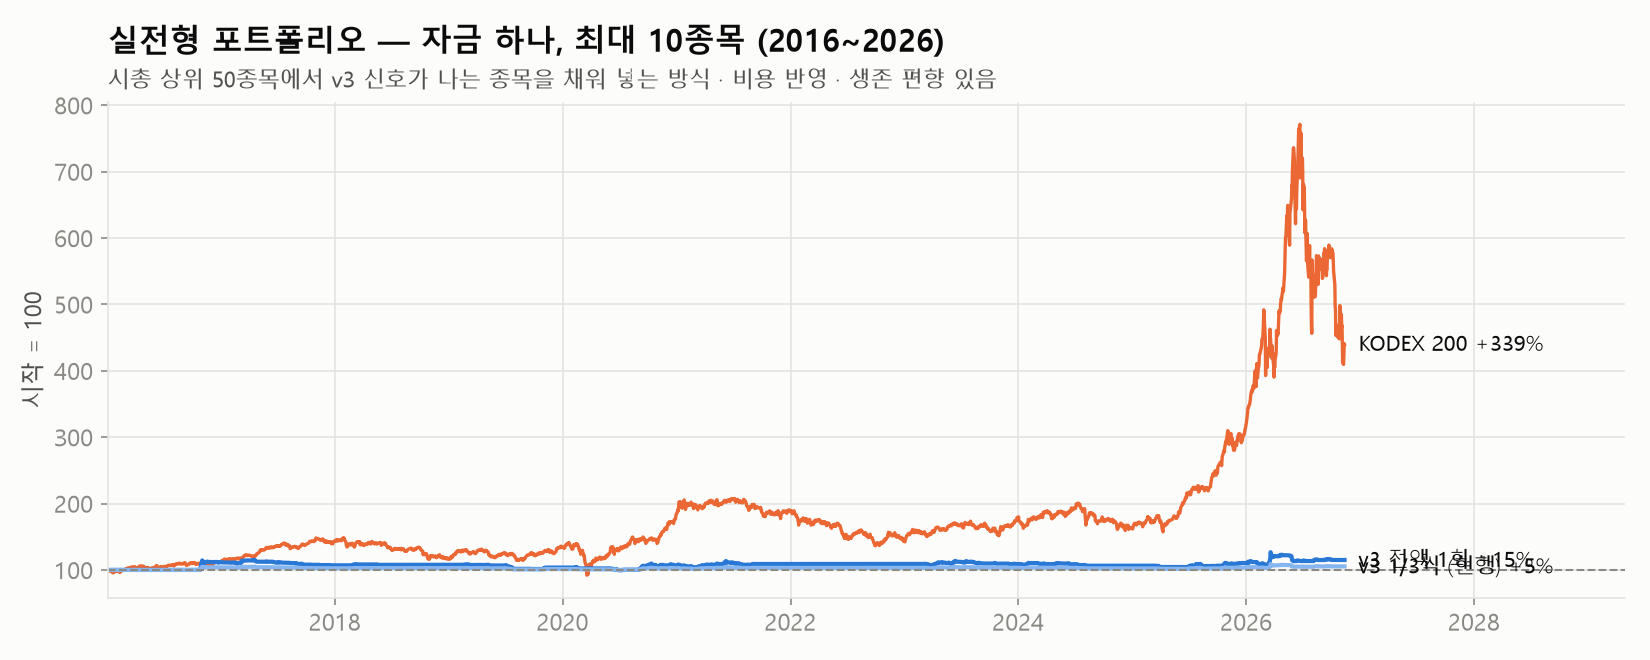
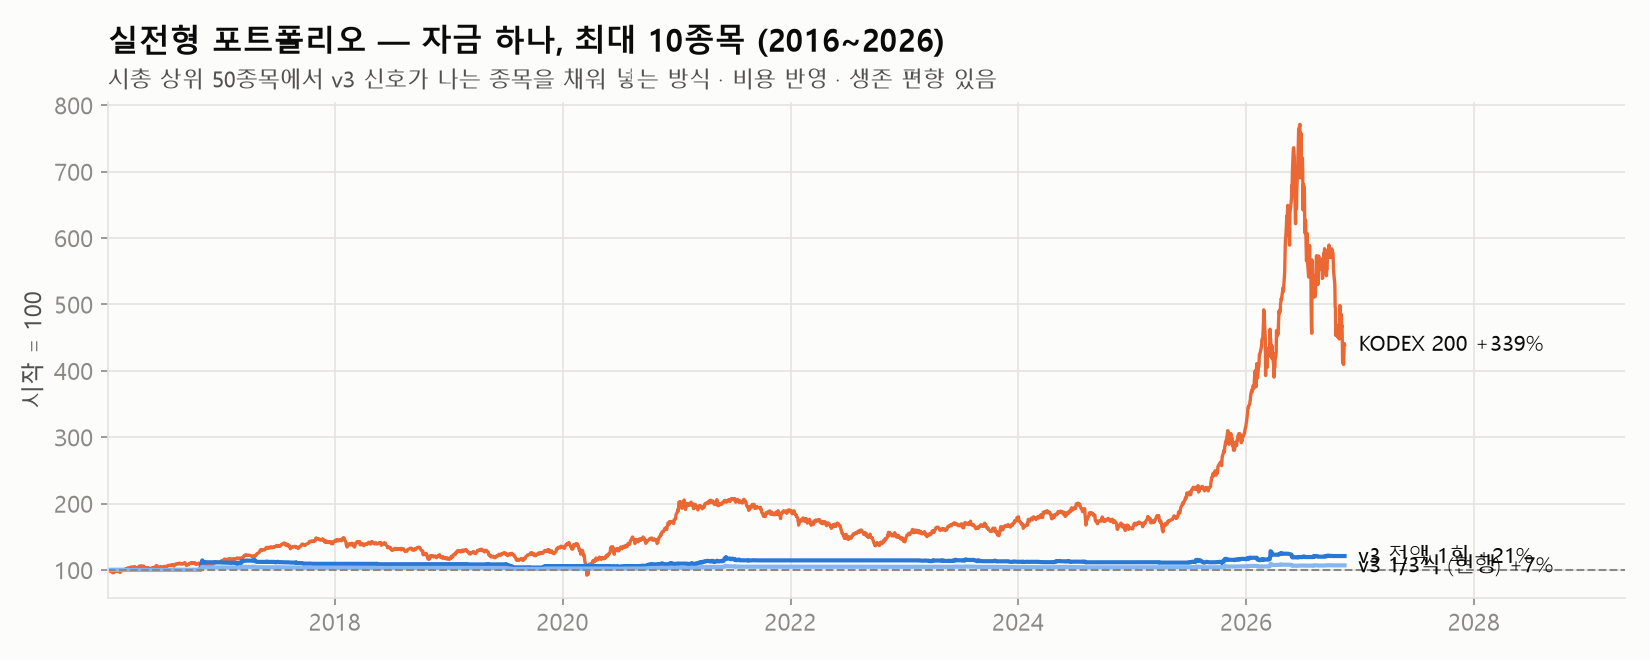
docs: 주봉 필터 버그 수정 후 백테스트 숫자·그림 갱신 (#1)
- 주봉 필터(v3): 수익팩터 1.11 → 1.50, 거래당 +1.35%, 최대낙폭 -0.7%
- v4 청산(이익이면 80까지): 수익팩터 1.50 → 2.06, 거래당 +3.06%, 최대낙폭 -17.0%
- 2026 리플레이 v4 +3.1%(청산 19건, 승률 42%)
- 파라미터·포트폴리오·청산 비교 등 그림 6개 재생성 (backtest_v3_extra.py, backtest_exits.py, replay.py, make_figures.py)

11/13 버그 수정(ab7df48) 뒤 다시 돌린 결과를 문서에 반영. 코드 변경 없음.

Changed region(s): [[0.3091, 0.8182, 0.9582, 0.8788], [0.1855, 0.8485, 0.2164, 0.8788]]

diff --git a/README.md b/README.md
@@ -63,27 +63,27 @@ flowchart LR
 - 유튜브 **"승률 99%"** RSI+MACD+스토캐스틱 5분봉 기법 → 실제 승률 31~38%, 수익팩터 0.50 (거래할수록 손실)
 - 지표를 섞어도(RSI·MACD) 좋아지지 않음 — RSI는 스토캐스틱과 거의 같은 신호
 - 스토캐스틱 규칙들은 **수익은 비슷(본전 근처)**, 차이는 **잃는 폭**
-- **주봉 스토캐스틱 필터(v3)** 를 더하자 수익팩터 1.11 → **1.23**, 거래당 +0.34% → **+0.68%**, 최대낙폭 -2.3% → **-1.0%**
+- **주봉 스토캐스틱 필터(v3)** 를 더하자 수익팩터 1.11 → **1.50**, 거래당 +0.34% → **+1.35%**, 최대낙폭 -2.3% → **-0.7%**
 
 ### 파는 방법을 바꾸면 (v4)
 커뮤니티(r/algotrading 등)의 공통 조언은 **"평균회귀 전략은 청산 규칙이 성과를 좌우한다"**. 청산 4가지 × 종목 범위 2가지를 실전형 포트폴리오(자금 하나, 최대 10종목)로 비교했다.
 
 ![청산 비교](docs/img/v4_exits.png)
 
-- **이익이면 80까지, 손실이면 데드크로스** (형님 말씀을 그대로 옮긴 규칙) → 수익팩터 1.23 → **1.51**, 거래당 +0.67% → **+1.65%** → **v4 채택**
-- 대가: 이익 종목을 오래 들고 가서 2026년 급락장 최대낙폭 -17.7%
+- **이익이면 80까지, 손실이면 데드크로스** (형님 말씀을 그대로 옮긴 규칙) → 수익팩터 1.50 → **2.06**, 거래당 +1.35% → **+3.06%** → **v4 채택**
+- 대가: 이익 종목을 오래 들고 가서 2026년 급락장 최대낙폭 -17.0%
 - Connors식 "종가 > 5일선" 청산은 승률은 55%로 높지만 수익이 작다
 - 종목을 200개로 넓히면 기회(투자비중)는 3배로 늘지만 거래당 수익은 줄어든다
 
 ### 설정을 바꿔도 버티나
 ![파라미터](docs/img/v3_params.png)
 
-%K·%D 평활 5 이상이면 대부분 이익, 3이면 손실. 형님 설정 (14,5,5)는 운 좋은 한 점이 아니라 **안정적인 구간 안**에 있다. 더 좋아 보이는 (20,5,5)는 거래가 적어 과적합을 피하려고 채택하지 않음.
+%K·%D 평활 5 이상이면 대부분 이익, 3이면 손실. 형님 설정 (14,5,5)는 운 좋은 한 점이 아니라 **안정적인 구간 안**에 있다. 더 좋아 보이는 (20,5,5)·(20,7,7)은 10년간 거래가 85건·47건뿐이라 과적합을 피하려고 채택하지 않음.
 
 ### 실전형 포트폴리오
 ![포트폴리오](docs/img/v3_portfolio.png)
 
-**가장 큰 숙제는 기회 부족** — 신호 품질(수익팩터 1.2~1.5)은 좋은데 평균 투자비중이 3~14%. 같은 기간 KODEX200 연 14.6%를 따라가려면 더 많은 종목(관심종목 확대·형님 리스트)이 필요하다.
+**가장 큰 숙제는 기회 부족** — 신호 품질(수익팩터 1.5~2.1)은 좋은데 평균 투자비중이 2~10%. 같은 기간 KODEX200 연 14.6%를 따라가려면 더 많은 종목(관심종목 확대·형님 리스트)이 필요하다.
 
 ### 2026년 리플레이 — 모의 계좌 vs 시장
 ![리플레이](docs/img/replay_equity.png)
@@ -95,8 +95,8 @@ OpenDART 2021~2026 상장사 CB 공시 2,002건을 추적 — 공시 후 120일 
 
 ## 솔직한 평가
 
-- ✅ **시장보다 훨씬 덜 잃는다** — 최대낙폭 -18% (KODEX200 -47%)
-- ✅ **주봉 필터(v3) + 80까지 보유(v4)** 로 거래당 수익 0.34% → 1.65% (2026 리플레이 -1.1% → +2.1% → **+3.3%**)
+- ✅ **시장보다 훨씬 덜 잃는다** — 최대낙폭 -17% (KODEX200 -47%)
+- ✅ **주봉 필터(v3) + 80까지 보유(v4)** 로 거래당 수익 0.34% → 3.06% (2026 리플레이 v4 **+3.1%**, 청산 19건·승률 42%)
 - ⚠ **수익은 아직 작다** — 기회(거래 수)가 적다. 자금 대부분이 쉬고, 상승 추세에서 일찍 판다 (위 GS 예시: +20% 매도 후 +60% 더 오름)
 - ⚠ **손절이 없다** — 급락장에서 한 종목 -30%도 나옴
 - 👉 수익은 결국 **종목 고르는 눈**에서 — 시스템은 타이밍·기록·감시 담당

diff --git a/프로젝트_설명.md b/프로젝트_설명.md
@@ -60,9 +60,9 @@
 | **형님 기법 v2 + 시장·종목 필터** (일봉 10년) | **연 +0.1%, 최대낙폭 -2.3%, 거래당 +0.34%, 수익팩터 1.11** — 잃지는 않지만 수익도 작음 |
 | 0% 전환사채 발행 종목 (2021~2026, 2,002건) | 공시 후 120일 시장 대비 중앙값 -12%, 70%가 시장보다 부진 → **매수 후보가 아니라 제외 대상** |
 | 2026년 리플레이 (상위 50종목) | v2: 청산 82건, -1.1% → **v3(주봉 필터): 청산 30건, 거래당 +1.8%, +2.1%** (같은 기간 KODEX200 +34%) |
-| 청산 규칙 4종 × 범위 2종 (`backtest_exits.py`, 커뮤니티 조언) | "이익이면 80까지·손실이면 데드크로스" 수익팩터 1.51, 거래당 +1.65% **(v4 채택)**, 대신 최대낙폭 -17.7% · 2026 리플레이 +3.3% |
-| 파라미터·손절·통합 포트폴리오 (`backtest_v3_extra.py`) | (14,5,5)는 안정 구간 · 꼬리 손절 효과 없음 · **평균 투자비중 3~14% = 기회 부족이 가장 큰 숙제** |
-| 스토캐스틱 개선 3종 (`backtest_hyung3.py`) | 주봉 필터: 수익팩터 1.11→1.23, 낙폭 -2.3→-1.0% **(채택)** · 매도 늦추기: 효과 없음 · 매수 금액 키우기: 수익·낙폭 비례 증가 |
+| 청산 규칙 4종 × 범위 2종 (`backtest_exits.py`, 커뮤니티 조언) | "이익이면 80까지·손실이면 데드크로스" 수익팩터 2.06, 거래당 +3.06% **(v4 채택)**, 대신 최대낙폭 -17.0% · 2026 리플레이 +3.1% |
+| 파라미터·손절·통합 포트폴리오 (`backtest_v3_extra.py`) | (14,5,5)는 안정 구간 · 꼬리 손절 효과 없음 · **평균 투자비중 2~10% = 기회 부족이 가장 큰 숙제** |
+| 스토캐스틱 개선 3종 (`backtest_hyung3.py`) | 주봉 필터: 수익팩터 1.11→1.50, 낙폭 -2.3→-0.7% **(채택)** · 매도 늦추기: 효과 없음 · 매수 금액 키우기: 수익·낙폭 비례 증가 |
 
 **해석**: 이 규칙의 강점은 "크게 안 잃는 것". 수익은 결국 **종목 고르는 눈**(형님의 공부)에서 나온다. 그래서 시스템은 타이밍·기록·감시를 맡고, 종목은 사람이 고르는 구조가 맞다 → `watchlist.csv`에 직접 종목을 넣으면 스크리너 대신 그걸 쓴다.
 
